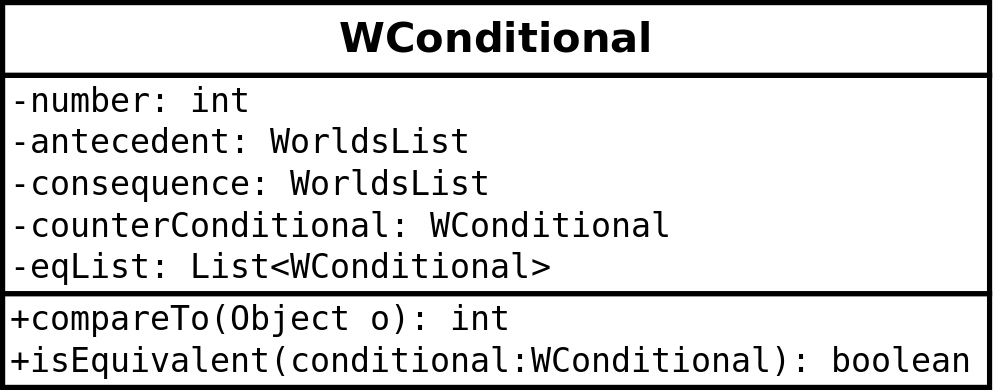
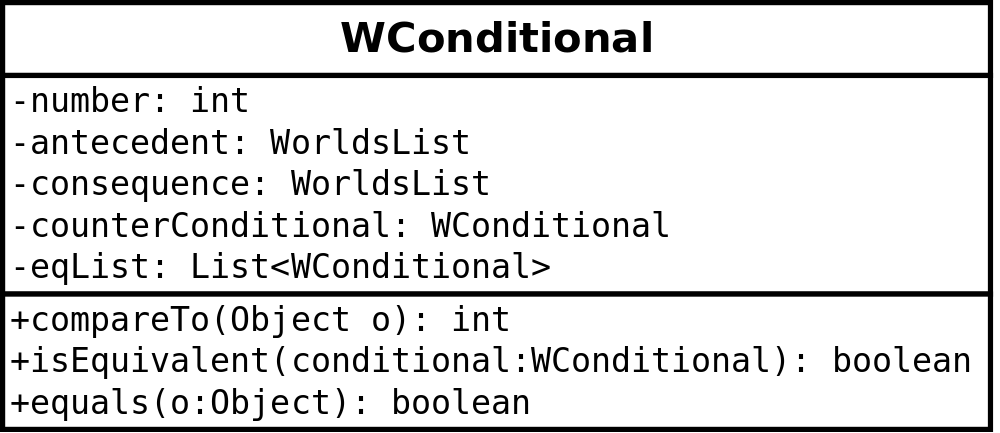
added equals wconditonal method

Changed region(s): [[0.0, 0.0, 1.0, 1.0]]

diff --git a/ma.tex b/ma.tex
@@ -352,16 +352,15 @@ Im folgenden wird nun die Methode \textit{createRenamings()} der Klasse WorlsLis
 
 \subsection{Die Klasse WConditional}
 
-Die Klasse WConditional bildet die Basis für die Berechnung der Konditionale aus einer vorgegebenen Signatur. Der Fokus der Klasse liegt dabei auf der Generierung, Ordnung und Betrachtung der Äquivalenz der Konditionale. Ein vereinfachtes Diagramm der Klasse ist in \autoref{pic:wconditional} zu sehen. Attribute der Klasse sind zum einen Antecedent und Consequence in Form eines WordsList Objekts. Weiterhin CounterConditional ebenfalls als Objekt der Klasse WConditional und einer Liste von äquivalenten Konditionalen als Objekte von WConditional.\\
-Außerdem ist die Nummer des Konditionals gemäß der Ordnung $\rdotl$ gemäß Definition \ref{def:sortierung-nfc} als int Variable enthalten. \\
-Die Klasse WConditional ist ebenfalls sortierbar mit dem Interface \textit{Comparable}, die Implementierung der \textit{compareTo(Object 0)} Methode ist in \autoref{code:compare-wconditonal} gezeigt. Die Implementierung entspricht damit genau der Sortierung nach $\overset{\mathrm{c}}{\dotll}$ wie in \autoref{eq:conditional-order} beschrieben.
-
-
 \begin{figure}
 \includegraphics[width=0.45\linewidth]{bilder/wconditional.png}
 \caption{WConditional}
 \label{pic:wconditional}
 \end{figure}
+
+Die Klasse WConditional bildet die Basis für die Berechnung der Konditionale aus einer vorgegebenen Signatur. Der Fokus der Klasse liegt dabei auf der Generierung, Ordnung und Betrachtung der Äquivalenz der Konditionale. Ein vereinfachtes Diagramm der Klasse ist in \autoref{pic:wconditional} zu sehen. Attribute der Klasse sind zum einen Antecedent und Consequence in Form eines WordsList Objekts. Weiterhin CounterConditional ebenfalls als Objekt der Klasse WConditional und einer Liste von äquivalenten Konditionalen als Objekte von WConditional.\\
+Außerdem ist die Nummer des Konditionals gemäß der Ordnung $\rdotl$ gemäß Definition \ref{def:sortierung-nfc} als int Variable enthalten. \\
+Die Klasse WConditional ist ebenfalls sortierbar mit dem Interface \textit{Comparable}, die Implementierung der \textit{compareTo(Object 0)} Methode ist in \autoref{code:compare-wconditonal} gezeigt. Die Implementierung entspricht damit genau der Sortierung nach $\overset{\mathrm{c}}{\dotll}$ wie in \autoref{eq:conditional-order} beschrieben.
 
 
 \begin{figure}
@@ -377,7 +376,25 @@ public int compareTo(Object o) {
 \label{code:compare-wconditonal}
 \end{figure}
 
+%todo: equals method beschreiben!
 
+
+\begin{figure}
+\begin{lstlisting}
+public boolean equals(Object o) {
+    if (!(o instanceof WConditional))
+        return false;
+    else {
+        WConditional otherConditional = (WConditional) o;
+        boolean leftEquals = otherConditional.getConsequence().equals(consequence);
+        boolean rightEquals = otherConditional.getAntecedent().equals(antecedent);
+        return leftEquals && rightEquals;
+    }
+}
+\end{lstlisting}
+\caption{Implementierung \textit{equals(Object 0)} der Klasse WConditonal}
+\label{code:equals-wconditonal}
+\end{figure}
 
 
 
